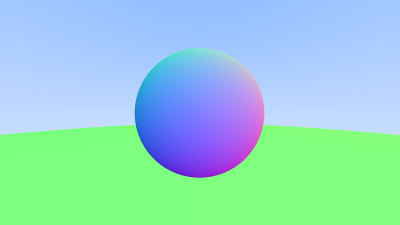
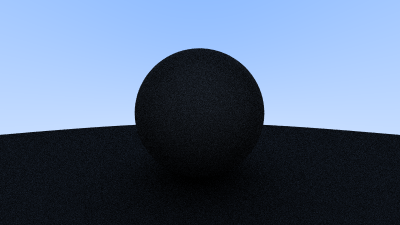
Add diffuse material (massive slow down 2s to 27s)

diff --git a/sphere.go b/sphere.go
@@ -7,7 +7,7 @@ type Sphere struct {
 	radius float64
 }
 
-func (s Sphere) Hit(ray Ray, tMin, tMax float64, record *HitRecord) bool {
+func (s Sphere) Hit(ray Ray, tMin, tMax float64) (bool, HitRecord) {
 	oc := ray.origin.Sub(s.center)
 	a := ray.direction.LengthSquared()
 	halfB := oc.Dot(ray.direction)
@@ -15,7 +15,7 @@ func (s Sphere) Hit(ray Ray, tMin, tMax float64, record *HitRecord) bool {
 
 	discriminant := halfB*halfB - a*c
 	if discriminant < 0 {
-		return false
+		return false, HitRecord{}
 	}
 	sqrtd := math.Sqrt(discriminant)
 
@@ -24,14 +24,17 @@ func (s Sphere) Hit(ray Ray, tMin, tMax float64, record *HitRecord) bool {
 	if root < tMin || tMax < root {
 		root = (-halfB + sqrtd) / a
 		if root < tMin || tMax < root {
-			return false
+			return false, HitRecord{}
 		}
 	}
 
-	record.t = root
-	record.point = ray.At(record.t)
-	outwardNormal := record.point.Sub(s.center).ScalarDiv(s.radius)
+	point := ray.At(root)
+	record := HitRecord{
+		t:     root,
+		point: point,
+	}
+	outwardNormal := point.Sub(s.center).ScalarDiv(s.radius)
 	record.SetFaceNormal(ray, outwardNormal)
 
-	return true
+	return true, record
 }

diff --git a/object.go b/object.go
@@ -4,7 +4,7 @@ package main
 // can be a single item like a Sphere or a group of objects like the World
 // (array of Spheres).
 type Hittable interface {
-	Hit(ray Ray, min, max float64, record *HitRecord) bool
+	Hit(ray Ray, min, max float64) (bool, HitRecord)
 }
 
 // Hit Record stores information about a specific intersect of a ray hitting a
@@ -30,17 +30,18 @@ func (r *HitRecord) SetFaceNormal(ray Ray, outwardNormal Vec3) {
 
 type World []Hittable
 
-func (w World) Hit(ray Ray, tMin, tMax float64, record *HitRecord) bool {
+func (w World) Hit(ray Ray, tMin, tMax float64) (bool, HitRecord) {
 	tempRecord := HitRecord{}
 	hitAnything := false
 	closestSoFar := tMax
 
 	for _, object := range w {
-		if object.Hit(ray, tMin, closestSoFar, &tempRecord) {
+		hit, record := object.Hit(ray, tMin, closestSoFar)
+		if hit {
 			hitAnything = true
-			closestSoFar = tempRecord.t
-			*record = tempRecord
+			closestSoFar = record.t
+			tempRecord = record
 		}
 	}
-	return hitAnything
+	return hitAnything, tempRecord
 }

diff --git a/ray.go b/ray.go
@@ -16,11 +16,19 @@ func (r Ray) At(t float64) Vec3 {
 	return r.origin.Add(v)
 }
 
-func (r Ray) Color(world Hittable) Vec3 {
-	hitRecord := HitRecord{}
-	if world.Hit(r, 0.0, Infinity, &hitRecord) {
-		return hitRecord.normal.Add(Vec3{1, 1, 1}).ScalarMul(0.5)
+func (r Ray) Color(world Hittable, depth int) Vec3 {
+	// If we've exceeded the ray bounce limit, no more light is gathered.
+	if depth <= 0 {
+		return Vec3{0, 0, 0}
 	}
+
+	hit, record := world.Hit(r, 0.0, Infinity)
+	if hit {
+		target := record.point.Add(record.normal).Add(Vec3RandomInUnitSphere())
+		ray := Ray{record.point, target.Sub(record.point)}
+		return ray.Color(world, depth-1).ScalarMul(0.5)
+	}
+
 	unitDirection := r.direction.Unit()
 	t := 0.5 * (unitDirection.y + 1.0)
 	a := Vec3{1.0, 1.0, 1.0}.ScalarMul(1.0 - t)

diff --git a/main.go b/main.go
@@ -12,6 +12,7 @@ const (
 	ImageHeight = int(ImageWidth / AspectRatio)
 
 	SamplesPerPixel = 100
+	MaxDepth        = 50
 )
 
 func main() {
@@ -33,7 +34,7 @@ func main() {
 				u := (float64(x) + random()) / float64(ImageWidth-1.0)
 				v := (float64(y) + random()) / float64(ImageHeight-1.0)
 				ray := camera.GetRay(u, v)
-				pixelColor = pixelColor.Add(ray.Color(world))
+				pixelColor = pixelColor.Add(ray.Color(world, MaxDepth))
 
 			}
 

diff --git a/vector.go b/vector.go
@@ -2,8 +2,28 @@ package main
 
 import (
 	"image/color"
+	"log"
 	"math"
 )
+
+func Vec3Rand(min, max float64) Vec3 {
+	return Vec3{randomF(min, max), randomF(min, max), randomF(min, max)}
+}
+
+func Vec3RandomInUnitSphere() Vec3 {
+	i := 0
+	var p Vec3
+	for {
+		if i > 10 {
+			log.Fatal("too many")
+		}
+		p = Vec3Rand(-1.0, 1.0)
+		if p.LengthSquared() >= 1 {
+			continue
+		}
+		return p
+	}
+}
 
 type Vec3 struct {
 	x, y, z float64

diff --git a/util.go b/util.go
@@ -14,8 +14,12 @@ func init() {
 	rand.Seed(time.Now().UTC().UnixNano())
 }
 
+func randomF(min, max float64) float64 {
+	return min + rand.Float64()*(max-min)
+}
+
 func random() float64 {
-	return 0.0 + rand.Float64()*(1.0-0.0)
+	return randomF(0.0, 1.0)
 }
 
 func clamp(x, min, max float64) float64 {
